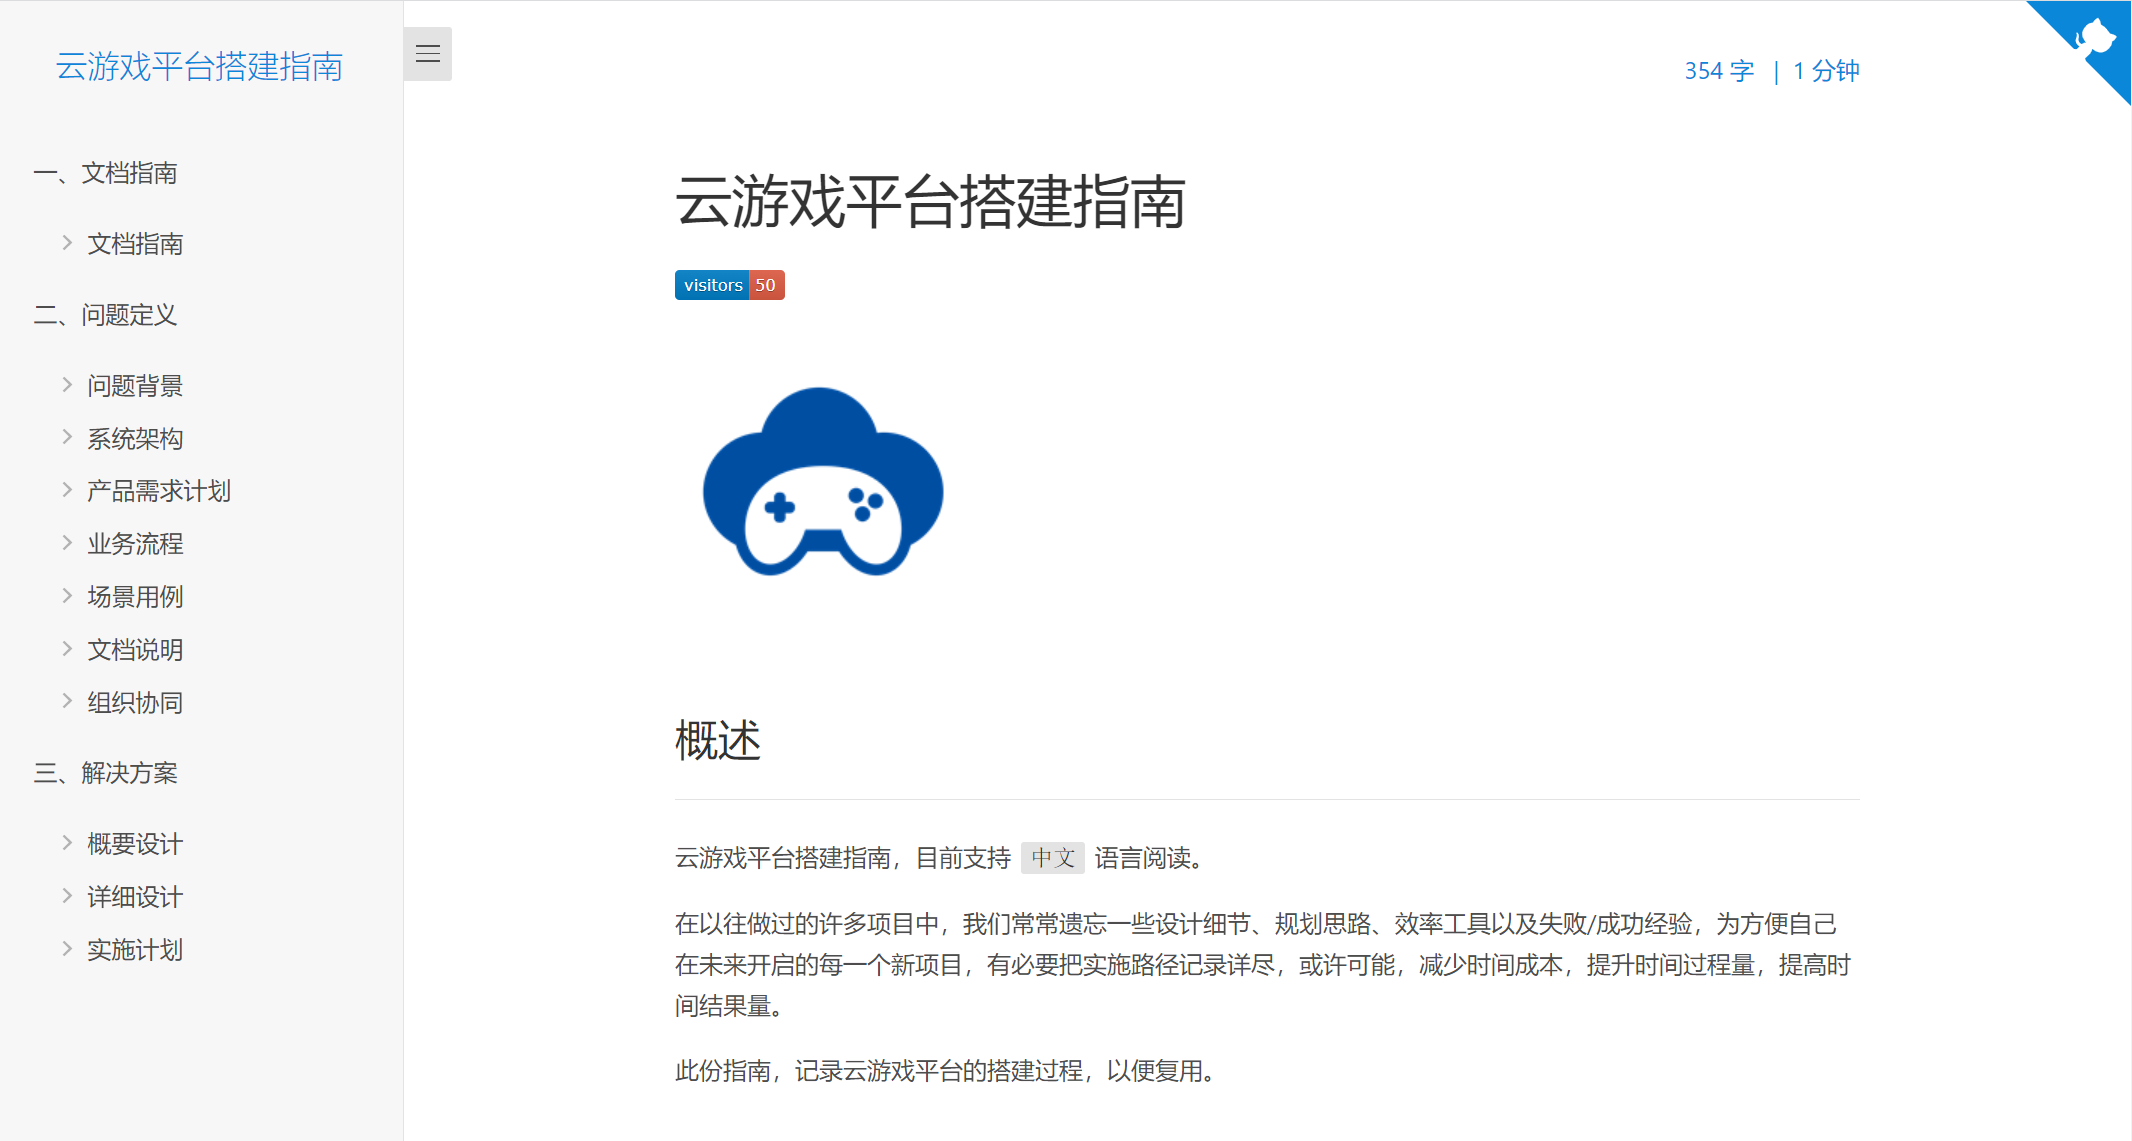
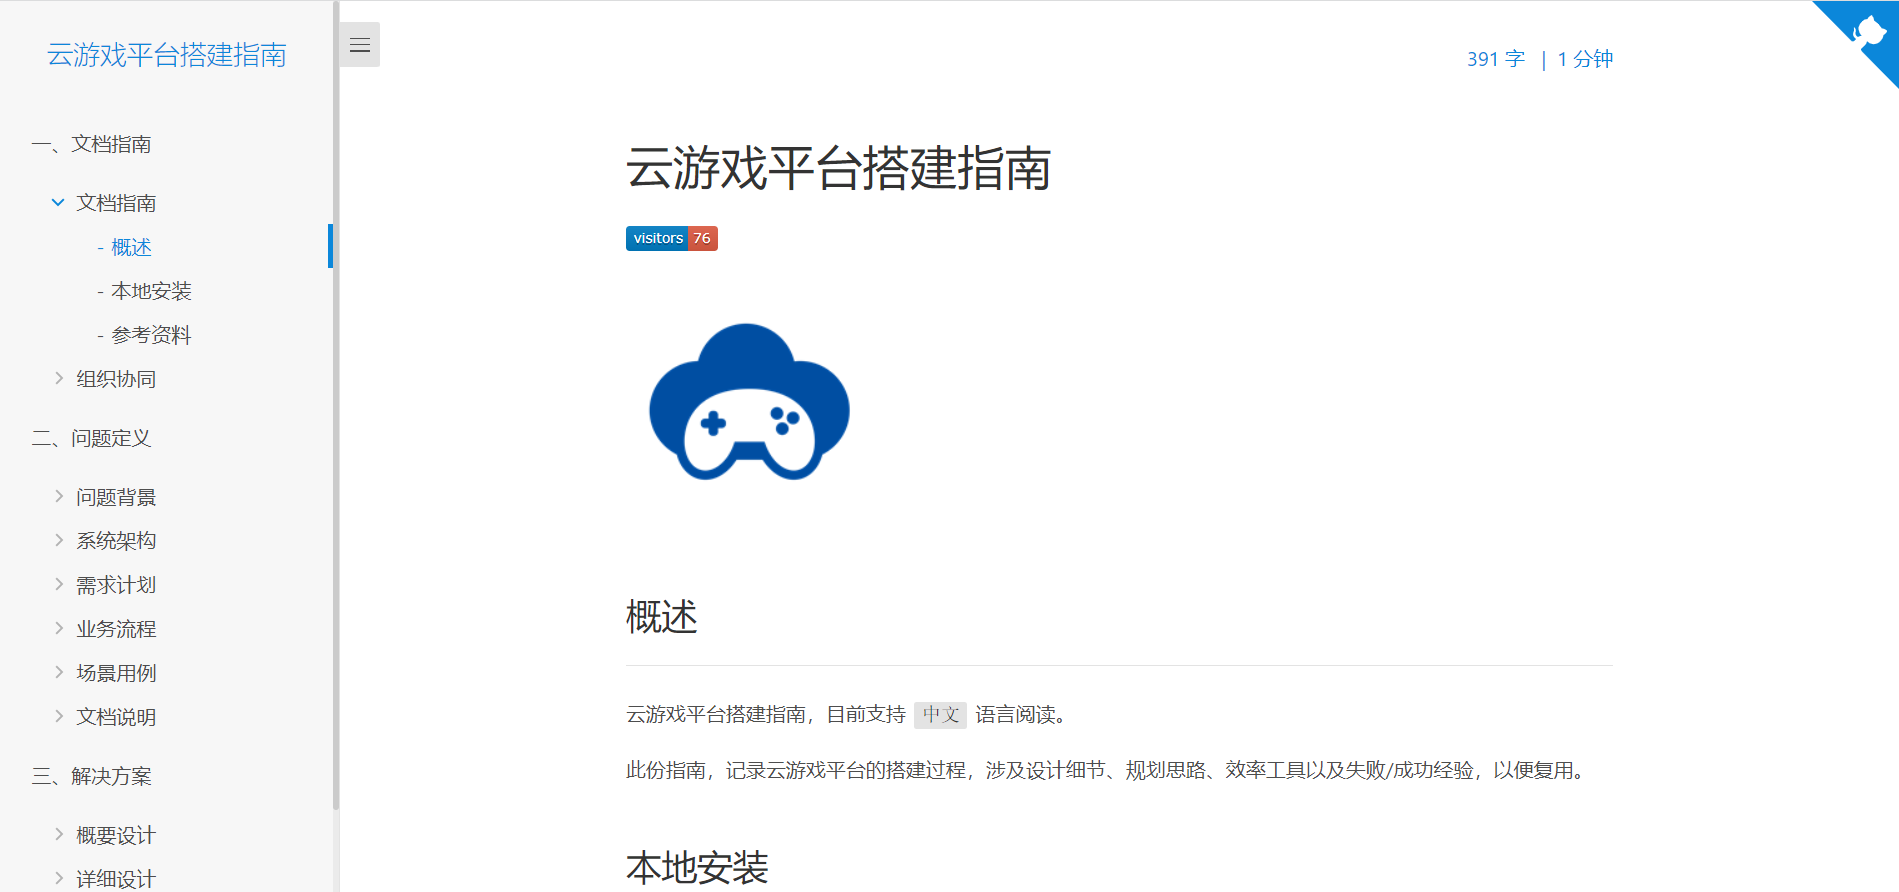
:memo: add a bizFlowChart of accountManagement and update the sys-arch-diagram after discuss.

diff --git a/zh-cn/02-problem-background.md b/zh-cn/02-problem-background.md
@@ -6,7 +6,7 @@
 >
 > 更新: 2022-07-25
 
-## 问题背景
+## 概述
 
 ### 云游戏
 
@@ -30,17 +30,13 @@
 
 ### 国内案例
 
-例如 [阿里云 - 云游戏 PaaS 平台](https://www.aliyun.com/product/industryengine/cloudgamingplatform) 则为游戏云化量身打造的一站式服务平台，具备游戏快速适配、资源弹性伸缩、全局智能调度、可视化数据运营和完善的平台运维能力。平台支持海量游戏稳定运行，量身打造的容器技术和协议确保游戏体验，多样化的SDK支持各类终端APP开发。满足用户联机互动、即点即用、微端试玩等创新需求。能力包括：
+例如 [阿里云 - 云游戏 PaaS 平台](https://www.aliyun.com/product/industryengine/cloudgamingplatform) 则为游戏云化量身打造的一站式服务平台，具备游戏快速适配、资源弹性伸缩、全局智能调度、可视化数据运营和完善的平台运维能力。平台支持海量游戏稳定运行，量身打造的容器技术和协议确保游戏体验，多样化的SDK支持各类终端APP开发。满足用户联机互动、即点即用、微端试玩等创新需求。能力核心：
 
 - 游戏适配
 - 资源伸缩
 - 全局调度
 - 数据运营
-- 平台运维
-
-
-
-
+- 平台运维 
 
 ## 问题与挑战
 
@@ -82,7 +78,23 @@
 👉 [更多应用场景](https://help.aliyun.com/document_detail/176364.htm)
 
 
+## 技术挑战
 
+### 1、实时性
+
+游戏的整体延迟包括了游戏逻辑运算时间、音画渲染的时间，加上编码的延时、网路传输的延时、客户端解码的延时、客户端向服务端发送控制信息的延时，云游戏的实时性要达到一个可令玩家接受的程度，这个技术挑战是非常高的，当然也要依靠 **硬件** 和 **网络** 本身的性能，如果没有足够的带宽也不可能做到。
+
+### 2、虚拟化技术
+
+虚拟化在服务端已经非常成熟，有虚拟机技术以及各种容器技术，但是在桌面上就不是那么成熟，普通的虚拟桌面不支持 GPU 的虚拟化，而游戏非常依赖 GPU 渲染，若没有 GPU 的虚拟化就没办法实现云游戏了，所以虚拟化是一个很大的技术瓶颈。
+
+### 3、经济性
+
+每个并发用户的服务器硬件成本关系到这个模式能否成功商业化，如果成本超出了用户可接受的范围，那就没有办法实现盈利。
+
+### 4、运维管理
+
+云游戏的运维管理跟传统的服务器运维管理不一样，因为用到的服务器硬件不一样，同时硬件负载又很高，这对运维管理提出了新的挑战，所以在技术上就要解决这些问题。
 
 ## 解决方案优势
 
@@ -102,3 +114,6 @@
         - 全国高性能服务节点与高效调度策略，多维度降低成本
 
 
+## 参考资料
+
+- [CSDN - 云游戏的架构设计和技术实现](https://blog.csdn.net/tonnychu/article/details/113842624)

diff --git a/README.md b/README.md
@@ -8,9 +8,7 @@
 
 云游戏平台搭建指南，目前支持 `中文` 语言阅读。
 
-在以往做过的许多项目中，我们常常遗忘一些设计细节、规划思路、效率工具以及失败/成功经验，为方便自己在未来开启的每一个新项目，有必要把实施路径记录详尽，或许可能，减少时间成本，提升时间过程量，提高时间结果量。
-
-此份指南，记录云游戏平台的搭建过程，以便复用。
+此份指南，记录云游戏平台的搭建过程，涉及设计细节、规划思路、效率工具以及失败/成功经验，以便复用。
 
 ## 本地安装
 
@@ -39,6 +37,9 @@
     Listening at http://localhost:3000
 ```
 
+4. 浏览器输入 `http://localhost:3000` 
+
+![](../_media/image/readme/success-001.png)
 
 ## 参考资料
 
@@ -53,7 +54,15 @@
 
 - [百度智能云 - 云游戏平台架构](https://cloud.baidu.com/solution/game/cloudgame.html)
 
+- [GamingAnywhere - 开源云游戏框架](http://gaminganywhere.org/index.html)
 
+- [阿里云 - 最佳实践 - 轻量级GPU部署云游戏](https://bp.aliyun.com/detail/76)
+
+- [阿里云 - 最佳实践 - 游戏业务分区合服](https://bp.aliyun.com/detail/66)
+
+- [阿里云 - 最佳实践 - 基于函数计算的游戏打包](https://bp.aliyun.com/detail/187)
+
+- [阿里云 - 最佳实践 - S级游戏多地域批量开服](https://bp.aliyun.com/detail/305)
 
 ***
 Powered by [docsify](https://docsify.js.org/)

diff --git a/zh-cn/README.md b/zh-cn/README.md
@@ -8,9 +8,7 @@
 
 云游戏平台搭建指南，目前支持 `中文` 语言阅读。
 
-在以往做过的许多项目中，我们常常遗忘一些设计细节、规划思路、效率工具以及失败/成功经验，为方便自己在未来开启的每一个新项目，有必要把实施路径记录详尽，或许可能，减少时间成本，提升时间过程量，提高时间结果量。
-
-此份指南，记录云游戏平台的搭建过程，以便复用。
+此份指南，记录云游戏平台的搭建过程，涉及设计细节、规划思路、效率工具以及失败/成功经验，以便复用。
 
 ## 本地安装
 
@@ -56,7 +54,15 @@
 
 - [百度智能云 - 云游戏平台架构](https://cloud.baidu.com/solution/game/cloudgame.html)
 
+- [GamingAnywhere - 开源云游戏框架](http://gaminganywhere.org/index.html)
 
+- [阿里云 - 最佳实践 - 轻量级GPU部署云游戏](https://bp.aliyun.com/detail/76)
+
+- [阿里云 - 最佳实践 - 游戏业务分区合服](https://bp.aliyun.com/detail/66)
+
+- [阿里云 - 最佳实践 - 基于函数计算的游戏打包](https://bp.aliyun.com/detail/187)
+
+- [阿里云 - 最佳实践 - S级游戏多地域批量开服](https://bp.aliyun.com/detail/305)
 
 ***
 Powered by [docsify](https://docsify.js.org/)

diff --git a/zh-cn/02-product-plan.md b/zh-cn/02-product-plan.md
@@ -1,10 +1,25 @@
-# 产品需求计划
+# 需求计划
 
 ![访问统计](https://visitor-badge.glitch.me/badge?page_id=senlypan.cloudgaming.02-product-plan&left_color=blue&right_color=red)
 
 > 作者: 大厂一组
 >
 > 更新: 2022-07-25
+
+
+## 产品需求计划功能导航
+
+详见 [腾讯文档 - 云游戏平台产品需求计划](https://docs.qq.com/sheet/DV25td0JHUEVFYk5T)
+
+!> 预览效果不佳，具体请打开以上详细链接
+
+<iframe id="embed_dom" name="embed_dom" frameborder="0" style="display:block;width:100%; height:5000px;" 
+src="https://docs.qq.com/sheet/DV25td0JHUEVFYk5T"></iframe>
+
+详见 [腾讯文档 - 云游戏平台产品需求计划](https://docs.qq.com/sheet/DV25td0JHUEVFYk5T)
+
+!> 预览效果不佳，具体请打开以上详细链接
+
 
 ## 约束/指导
 
@@ -23,16 +38,5 @@
 ### 4、达成共识
 
 我们的解决方案是什么？
-
-
-## 产品需求计划
-
-详见 [腾讯文档 - 云游戏平台产品需求计划](https://docs.qq.com/sheet/DV25td0JHUEVFYk5T)
-
-!> 预览效果不佳，具体请打开以上详细链接
-
-<iframe id="embed_dom" name="embed_dom" frameborder="0" style="display:block;width:100%; height:3600px;" 
-src="https://docs.qq.com/sheet/DV25td0JHUEVFYk5T"></iframe>
-
 
 

diff --git a/zh-cn/02-system-architecture-diagram.md b/zh-cn/02-system-architecture-diagram.md
@@ -28,6 +28,30 @@
 - **管控中心**：定位于游戏调度管理和游戏运维监控，通过认证、调度和运维管理，帮助您快捷接入云游戏PaaS服务，保障您的业务发展范围内都能得到优质服务，提高业务扩张能力。
     - **主要挑战**：性能、调度策略、基础设施 
 
+## 基础架构
+
+### 游戏打包业务架构参考
+
+![](../_media/image/02-system-architecture-diagram/base-arch-game-tar.png)
+
+参考 [阿里云 - 基于函数计算的游戏打包](https://bp.aliyun.com/detail/187)，方案优势：
+
+- 自动化
+- 免运维
+- 并行化
+- 低成本
+
+### 轻量级GPU部署云游戏架构参考
+
+![](../_media/image/02-system-architecture-diagram/base-arch-game-deploy.png)
+
+参考 [阿里云 - 轻量级GPU部署云游戏最佳实践](https://bp.aliyun.com/detail/76)，方案优势：
+
+- 更小的 GPU 规格降低成本
+- 支持业务在线迁移
+- QoS 保障用户 GPU 资源不被抢占
+- 同时支持 AI 计算与图形图像计算
+
 ## 参考资料
 
 ### 阿里云云游戏平台架构

diff --git a/zh-cn/02-business-flow-chart.md b/zh-cn/02-business-flow-chart.md
@@ -6,7 +6,7 @@
 >
 > 更新: 2022-07-25
 
-## 云游戏平台基础流程图
+## 云游戏平台整体流程
 
 ![](../_media/image/02-business-flow-chart/business-flow-chart-001.jpg)
 
@@ -15,6 +15,22 @@
 !> 预览效果不佳，具体请打开以上详细链接
 
 
+## 基础流程
+
+### 账号管理流程
+
+![](../_media/image/02-business-flow-chart/account-manage.jpg)
+
+详见 [ProcessOn - 云游戏平台运营中心之账号管理流程图](https://www.processon.com/view/link/62e3a54be401fd0727abb34c)
+
+!> 预览效果不佳，具体请打开以上详细链接
+
+
+### 游戏微端整体业务流程
+
+![](../_media/image/02-business-flow-chart/sdk-deploy-001.png)
+
+参考 [腾讯云 - 游戏微端](https://cloud.tencent.com/document/product/1162/66701)
 
 
 

diff --git a/zh-cn/02-document-description.md b/zh-cn/02-document-description.md
@@ -7,6 +7,7 @@
 > 更新: 2022-07-25
 
 ### ⛔抱歉，内容未梳理完成
+?> ❤ 您也可以参与梳理，快来提交 [PR](https://github.com/senlypan/cloudgaming-docs/pulls) 或 [issue](https://github.com/senlypan/cloudgaming-docs/issues) 吧~
 
 
 

diff --git a/zh-cn/02-use-case-diagram.md b/zh-cn/02-use-case-diagram.md
@@ -7,6 +7,7 @@
 > 更新: 2022-07-25
 
 ### ⛔抱歉，内容未梳理完成
+?> ❤ 您也可以参与梳理，快来提交 [PR](https://github.com/senlypan/cloudgaming-docs/pulls) 或 [issue](https://github.com/senlypan/cloudgaming-docs/issues) 吧~
 
 
 

diff --git a/zh-cn/03-construction-plan.md b/zh-cn/03-construction-plan.md
@@ -7,6 +7,7 @@
 > 更新: 2022-07-25
 
 ### ⛔抱歉，内容未梳理完成
+?> ❤ 您也可以参与梳理，快来提交 [PR](https://github.com/senlypan/cloudgaming-docs/pulls) 或 [issue](https://github.com/senlypan/cloudgaming-docs/issues) 吧~
 
 
 

diff --git a/zh-cn/03-detailed-design.md b/zh-cn/03-detailed-design.md
@@ -7,6 +7,7 @@
 > 更新: 2022-07-25
 
 ### ⛔抱歉，内容未梳理完成
+?> ❤ 您也可以参与梳理，快来提交 [PR](https://github.com/senlypan/cloudgaming-docs/pulls) 或 [issue](https://github.com/senlypan/cloudgaming-docs/issues) 吧~
 
 
 

diff --git a/zh-cn/03-outline-design.md b/zh-cn/03-outline-design.md
@@ -7,6 +7,7 @@
 > 更新: 2022-07-25
 
 ### ⛔抱歉，内容未梳理完成
+?> ❤ 您也可以参与梳理，快来提交 [PR](https://github.com/senlypan/cloudgaming-docs/pulls) 或 [issue](https://github.com/senlypan/cloudgaming-docs/issues) 吧~
 
 
 

diff --git a/zh-cn/02-organizational-collaboration.md b/zh-cn/02-organizational-collaboration.md
@@ -21,6 +21,8 @@
     - 阶段目标 + 拆解议题
 - **会议目标**
     - 达成共识 + 确立分工
+- **辅助策略**
+    - 会议录制 + 缺席回观
 
 
 
